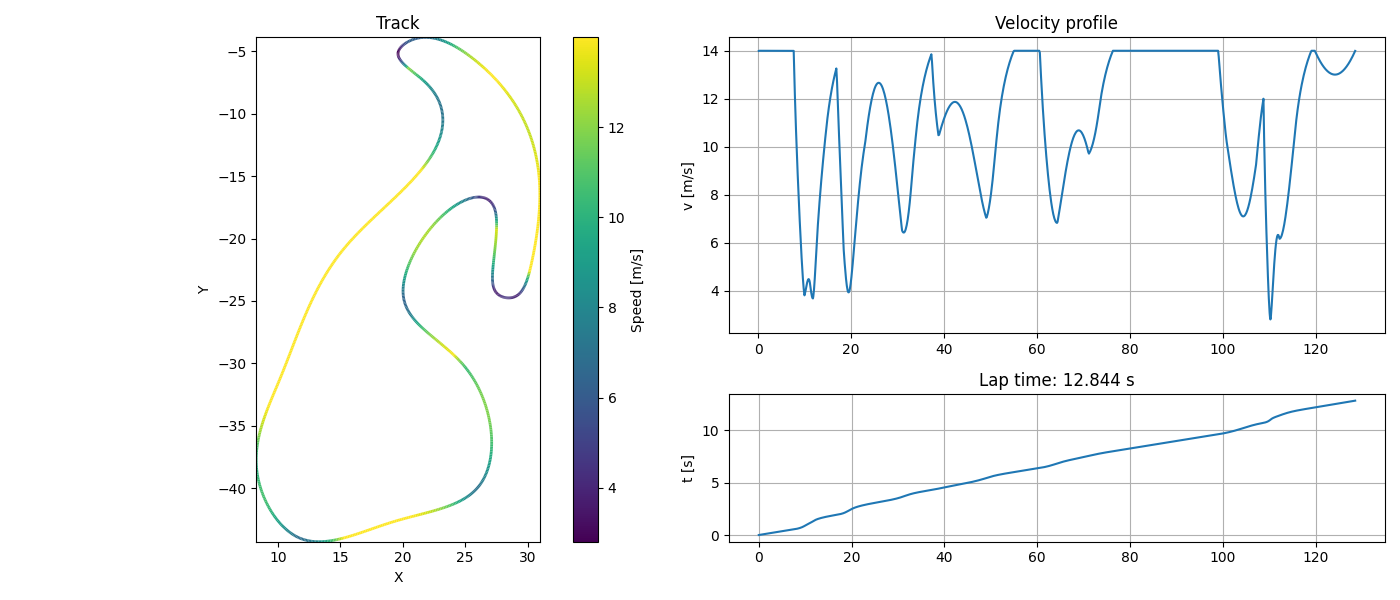
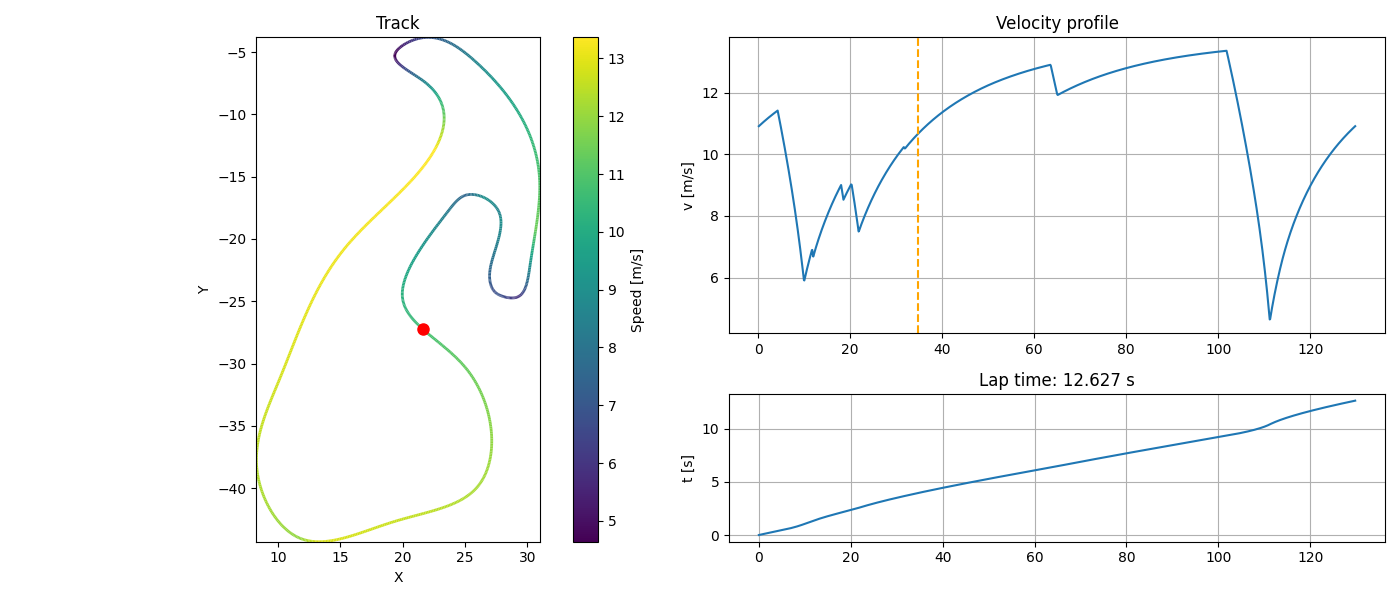
Added cursor to show corresponding track position to speed trace position and updated result plot screenshot

diff --git a/lap.py b/lap.py
@@ -5,7 +5,7 @@ from scipy.interpolate import splprep, splev
 from matplotlib.collections import LineCollection
 
 def run_sim(dg):
-    fy_max = 30
+    # Track definition
 
     file = open("track_points.txt", "r")
     track = []
@@ -21,7 +21,7 @@ def run_sim(dg):
     x = numpy.append(x, x[0])
     y = numpy.append(y, y[0])
 
-    tck, u = splprep([x, y], s=9, per=True)
+    tck, u = splprep([x, y], s=6, per=True)
 
     # fein aufgelöste Strecke
     u_fine = numpy.linspace(0, 1, 1000)
@@ -61,12 +61,15 @@ def run_sim(dg):
     kappa_safe = numpy.copy(curvature)
     kappa_safe[numpy.abs(kappa_safe) < 1e-6] = 1e-6
 
-    v_corner = numpy.sqrt(fy_max / numpy.abs(kappa_safe))
-
     rho = 1.2            # Luftdichte
     CdA = 0.01           # RC typisch klein
-    # Cr = 0.015
     mass = 1.32          # kg
+    mu = 0.8             # Reifenhaftung (Gummi auf Teppich/Asphalt)
+    g = 9.81
+    
+    fy_max = mass*mu*g
+
+    v_corner = numpy.sqrt(fy_max*4 / numpy.abs(kappa_safe))
 
     # v_max = v[numpy.argmin(numpy.abs(P_required - P_max))]
     v_sim, x, y = simulate_motor(50, V_bat=8.4, dg=dg)
@@ -83,7 +86,7 @@ def run_sim(dg):
     # plt.grid(True)
     # plt.show()
 
-    ay_max = 10.0      # m/s²
+    ay_max = mu*g
 
     # v_forward = numpy.copy(v_final)
 
@@ -97,7 +100,6 @@ def run_sim(dg):
             ax_acc_max = (torque * dg / 0.031 - F_drag) / mass
             v_possible = numpy.sqrt(v_forward[i]**2 + 2 * ax_acc_max * ds[i])
             v_forward[i+1] = numpy.minimum(v_forward[i+1], v_possible)
-
 
         # plt.plot(v_final)
         # plt.plot(v_forward, '.')
@@ -192,8 +194,38 @@ def run_sim(dg):
     ax_t.grid(True)
 
     plt.tight_layout()
-    plt.show()
+    
     print(f'Max RPM: {numpy.max(v_final) * dg/ (2 * numpy.pi * 0.031) * 60}')
+
+    track_marker, = ax_track.plot([], [], 'ro', markersize=8)
+    cursor_line = ax_v.axvline(0, color='orange', linestyle='--')
+
+    def on_move(event):
+
+        # Nur wenn Maus im Velocity Plot
+        if event.inaxes != ax_v:
+            return
+
+        if event.xdata is None:
+            return
+
+        # passenden Streckenindex finden
+        idx = numpy.argmin(numpy.abs(s[:-1] - event.xdata))
+
+        # Marker auf Strecke bewegen
+        track_marker.set_data(
+            [x_fine[idx]],
+            [y_fine[idx]]
+        )
+
+        # Vertikale Linie im Velocity Plot
+        cursor_line.set_xdata([s[idx], s[idx]])
+
+        fig.canvas.draw_idle()
+
+    fig.canvas.mpl_connect('motion_notify_event', on_move)
+    plt.show()
+
     return lap_time, v_max
 
 if __name__ == "__main__":